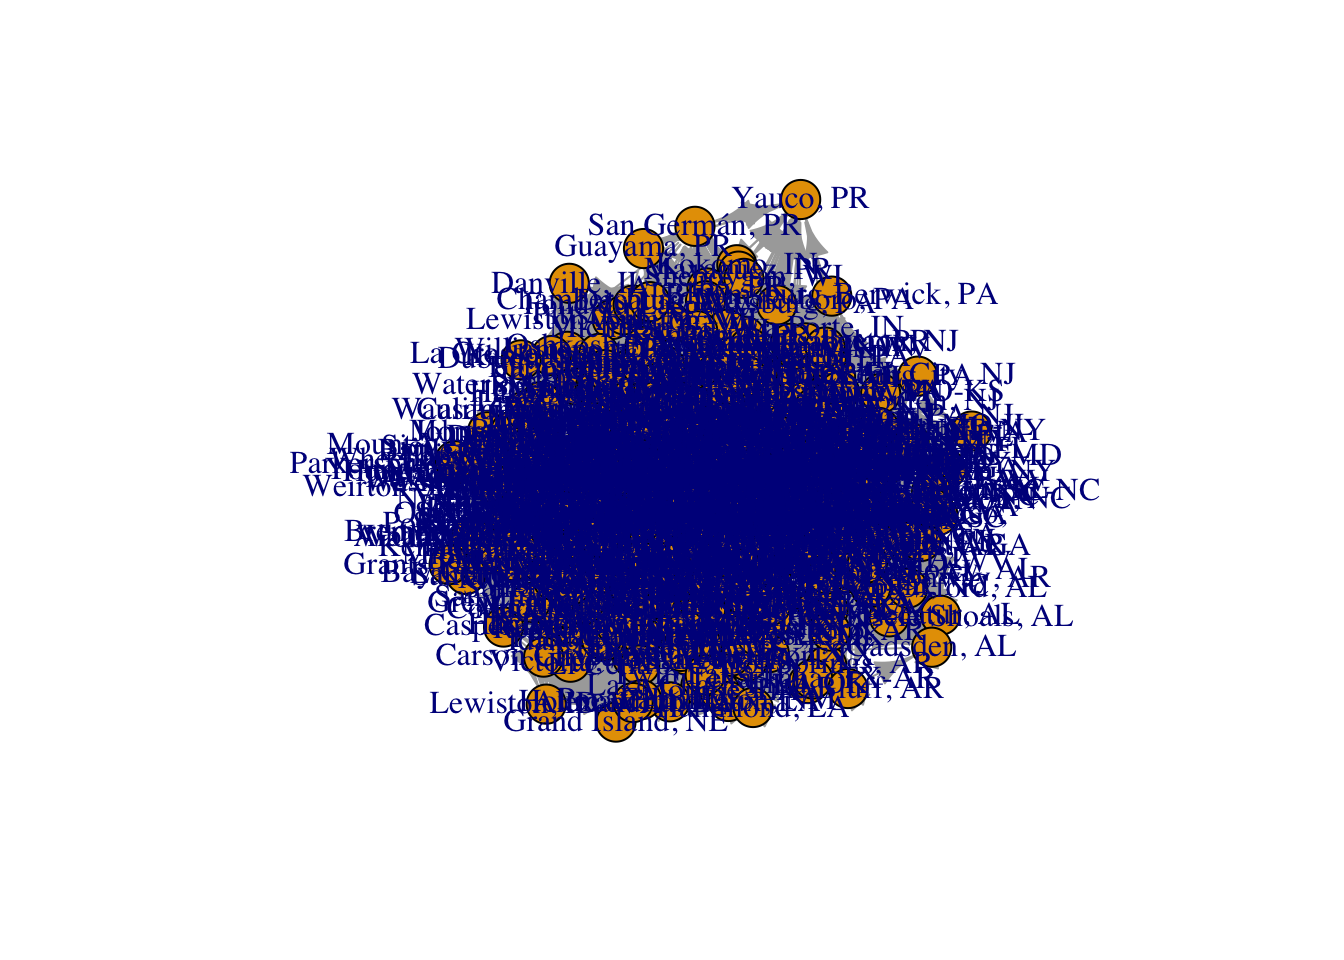
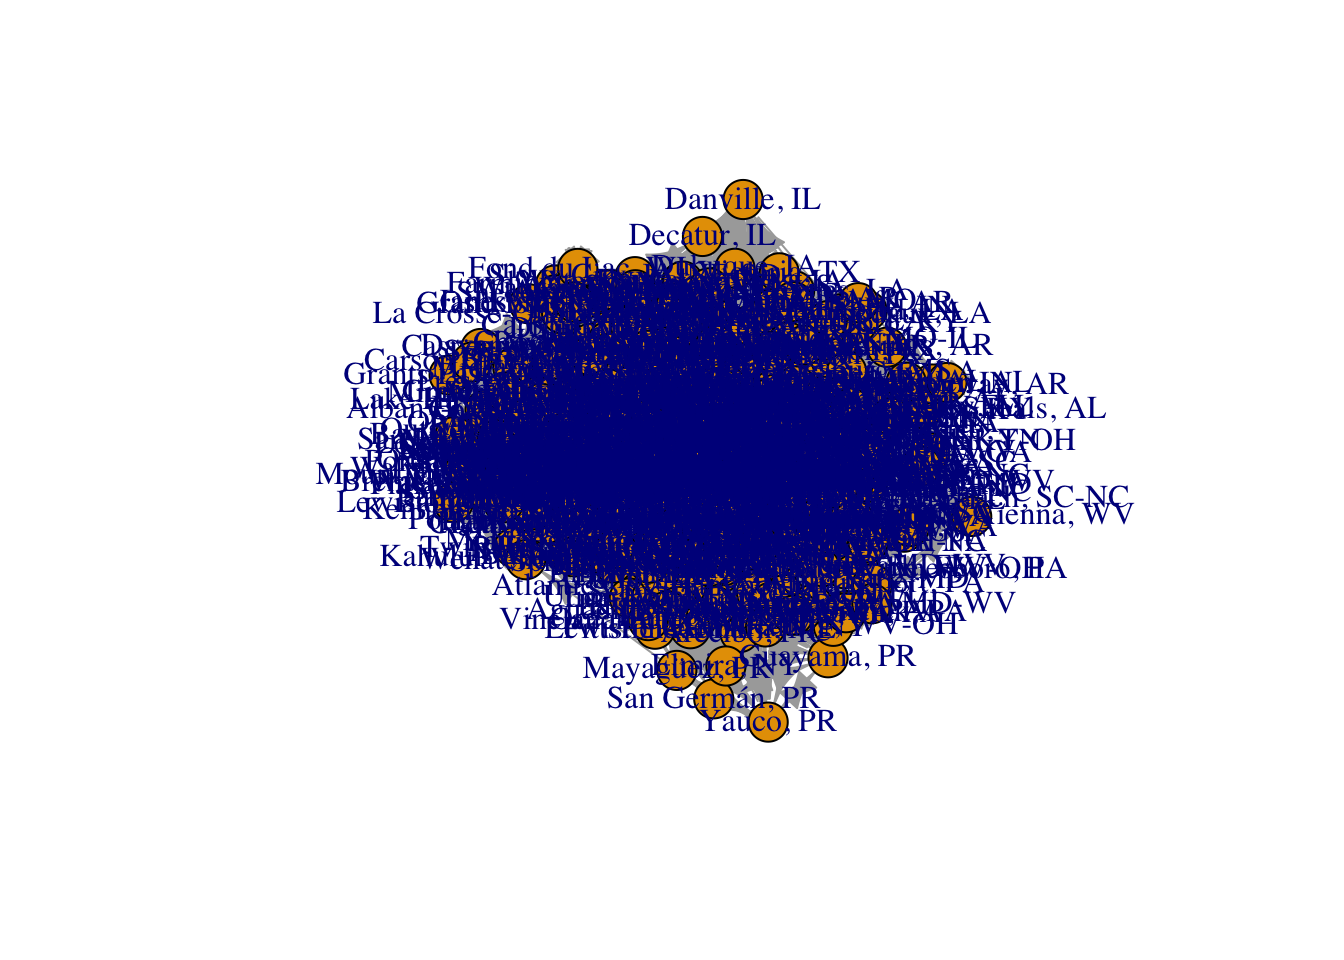
Carmen_17_Jan
Up to distances. Also some changes on preparing the dataframe.

Changed region(s): [[0.2188, 0.1875, 0.8438, 0.7812]]

diff --git a/_book/network.html b/_book/network.html
@@ -332,7 +332,7 @@ code span.wa { color: #60a0b0; font-weight: bold; font-style: italic; } /* Warni
 <div class="cell">
 <div class="sourceCode cell-code" id="cb2"><pre class="sourceCode r code-with-copy"><code class="sourceCode r"><span id="cb2-1"><a href="#cb2-1" aria-hidden="true" tabindex="-1"></a><span class="fu">getwd</span>() <span class="co">#Obtain the working directory, where we will save the data folder</span></span></code><button title="Copy to Clipboard" class="code-copy-button"><i class="bi"></i></button></pre></div>
 <div class="cell-output cell-output-stdout">
[1 lines of base64/hex data omitted]
+<pre><code>[1] "/Users/carmen/Library/CloudStorage/OneDrive-TheUniversityofLiverpool/GitHub/r4ps"</code></pre>
 </div>
 </div>
 </section>
@@ -468,7 +468,7 @@ code span.wa { color: #60a0b0; font-weight: bold; font-style: italic; } /* Warni
 <div class="cell">
 <div class="sourceCode cell-code" id="cb11"><pre class="sourceCode r code-with-copy"><code class="sourceCode r"><span id="cb11-1"><a href="#cb11-1" aria-hidden="true" tabindex="-1"></a><span class="fu">V</span>(g3)</span></code><button title="Copy to Clipboard" class="code-copy-button"><i class="bi"></i></button></pre></div>
 <div class="cell-output cell-output-stdout">
-<pre><code>+ 7/7 vertices, named, from 5122a26:
+<pre><code>+ 7/7 vertices, named, from 53bb9e3:
 [1] City 1 City 2 City 3 City 4 City 5 City 6 City 7</code></pre>
 </div>
 </div>
@@ -487,7 +487,7 @@ code span.wa { color: #60a0b0; font-weight: bold; font-style: italic; } /* Warni
 <div class="cell">
 <div class="sourceCode cell-code" id="cb16"><pre class="sourceCode r code-with-copy"><code class="sourceCode r"><span id="cb16-1"><a href="#cb16-1" aria-hidden="true" tabindex="-1"></a><span class="fu">E</span>(g3)</span></code><button title="Copy to Clipboard" class="code-copy-button"><i class="bi"></i></button></pre></div>
 <div class="cell-output cell-output-stdout">
-<pre><code>+ 6/6 edges from 5122a26 (vertex names):
+<pre><code>+ 6/6 edges from 53bb9e3 (vertex names):
 [1] City 1-&gt;City 2 City 2-&gt;City 3 City 1-&gt;City 4 City 4-&gt;City 1 City 4-&gt;City 2
 [6] City 4-&gt;City 5</code></pre>
 </div>
@@ -657,7 +657,7 @@ $population
 <div class="cell">
 <div class="sourceCode cell-code" id="cb36"><pre class="sourceCode r code-with-copy"><code class="sourceCode r"><span id="cb36-1"><a href="#cb36-1" aria-hidden="true" tabindex="-1"></a><span class="fu">library</span>(sf)</span></code><button title="Copy to Clipboard" class="code-copy-button"><i class="bi"></i></button></pre></div>
 <div class="cell-output cell-output-stderr">
-<pre><code>Linking to GEOS 3.10.2, GDAL 3.4.2, PROJ 8.2.1; sf_use_s2() is TRUE</code></pre>
+<pre><code>Linking to GEOS 3.11.0, GDAL 3.5.3, PROJ 9.1.0; sf_use_s2() is TRUE</code></pre>
 </div>
 <div class="sourceCode cell-code" id="cb38"><pre class="sourceCode r code-with-copy"><code class="sourceCode r"><span id="cb38-1"><a href="#cb38-1" aria-hidden="true" tabindex="-1"></a><span class="fu">library</span>(stringr)</span>
 <span id="cb38-2"><a href="#cb38-2" aria-hidden="true" tabindex="-1"></a></span>
@@ -665,7 +665,7 @@ $population
 <span id="cb38-4"><a href="#cb38-4" aria-hidden="true" tabindex="-1"></a>cbsa_us <span class="ot">&lt;-</span> <span class="fu">st_read</span>(<span class="st">"./data/cb_2020_us_cbsa_500k/cb_2020_us_cbsa_500k.shp"</span>)</span></code><button title="Copy to Clipboard" class="code-copy-button"><i class="bi"></i></button></pre></div>
 <div class="cell-output cell-output-stdout">
 <pre><code>Reading layer `cb_2020_us_cbsa_500k' from data source 
-  `/Users/franciscorowe/Dropbox/Francisco/uol/teaching/envs418/202223/r4ps/data/cb_2020_us_cbsa_500k/cb_2020_us_cbsa_500k.shp' 
+  `/Users/carmen/Library/CloudStorage/OneDrive-TheUniversityofLiverpool/GitHub/r4ps/data/cb_2020_us_cbsa_500k/cb_2020_us_cbsa_500k.shp' 
   using driver `ESRI Shapefile'
 Simple feature collection with 939 features and 9 fields
 Geometry type: MULTIPOLYGON
